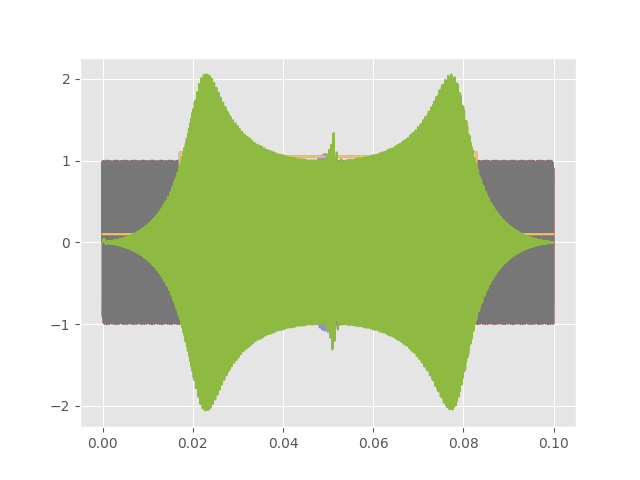
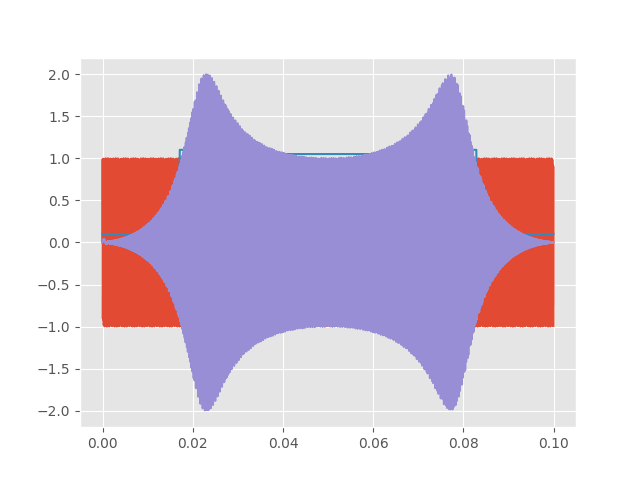
biquad filter now executes fast enough

diff --git a/autowah/variable_cutoff_biquad_filter.py b/autowah/variable_cutoff_biquad_filter.py
@@ -1,8 +1,32 @@
 from scipy import interpolate
 import numpy as np
 from collections import deque
+import numba
 
- 
+K = np.vectorize(lambda x: np.tan(np.pi * x))
+points = np.linspace(0,.5,endpoint=True,num=64)
+K_interp = interpolate.interp1d(points, K(points))
+
+@numba.jit()
+def _calculate_lowpass_gains(wc, Q):
+    K =  np.tan(np.pi * (wc))
+    norm = 1 / (1 + K / Q + K * K)
+    b0 = K*K*norm
+    a0 = 2*(K*K-1) * norm
+    a1 = (1 - K/Q + K * K) * norm
+    return (b0, a0, a1)
+
+@numba.jit()
+def _calculate_bandpass_gains(wc, Q):
+    K =  np.tan(np.pi * (wc))
+    norm = 1 / (1 + K / Q + K * K)
+    b0 = K / Q * norm;
+    # b1 = 0;
+    # b2 = -b0;
+    a1 = 2 * (K * K - 1) * norm;
+    a2 = (1 - K / Q + K * K) * norm;
+    return (b0, a1, a2)
+
 class VariableCutoffBiquadFilter:
     """
     Biquad Filter Implementation with Variable gain parameters. This assumes a LPF
@@ -19,52 +43,24 @@ class VariableCutoffBiquadFilter:
 
         self.fs = fs or 2*np.pi
 
+        self.b = np.zeros(3)
+        self.a = np.zeros(2)
+        self.prev_u = np.zeros(2)
 
         self.chunk = chunk
         if self.chunk:
             self.ys = np.empty(chunk, dtype=np.float32)
-
-        self.b = np.zeros(3)
-        self.a = np.zeros(2)
-
+            self.dest_u = np.empty(chunk + len(self.prev_u), dtype=np.float32)
+     
         K = np.vectorize(lambda x: np.tan(np.pi * x))
         points = np.linspace(0.001,.5,endpoint=True,num=64)
         self.K_interp = interpolate.interp1d(points, K(points))
 
-
         self.reset()
-
-    # @numba.jit()
-    def _calculate_lowpass_gains(self, wc, Q=.707):
-        K = self.K_interp(wc)
-        K_squared =  K * K
-        norm = 1 / (1 + K / Q + K * K)
-        
-        self.b[0] = K_squared*norm
-        self.b[1] = 2*self.b[0]
-        self.b[2] = self.b[0]
-        
-        self.a[0] = 2*(K_squared-1) * norm
-        self.a[1] = (1 - K/Q + K * K) * norm
 
     def reset(self):
         self._is_init = False
-        self._z_b = deque(maxlen=2)
-        self._z_b.extend(np.zeros(2))
-        self._z_a = deque(maxlen=2)
-        self._z_a.extend(np.zeros(2))
-        # self._z.extend(np.zeros(self._filter_len, dtype=np.float32))
 
-        # Qs = np.linspace(0,20,num=16)
-        # fs = np.linspace(0,np.pi, num=1024)
-        # points = np.meshgrid(Qs, fs)
-        # self._gain_interpolator = interpolate.LinearNDInterpolator(points, _calculate_lowpass_gains)
-
-        # # Create a lookup table for the available filter frequencies from 0 to nyquist
-        # self._coefficients_lut_size = 1024*2
-        # self._coefficients_lut_omegas = np.linspace(0, np.pi, endpoint=False, num=self._coefficients_lut_size)
-        # self._coefficients_lut = [self._compute_coefficients(w) for w in self._coefficients_lut_omegas]    
-    
 
     def run(self, u, fc):
         """
@@ -80,12 +76,16 @@ class VariableCutoffBiquadFilter:
 
         if not self.chunk:
             self.ys = np.empty(len(u), dtype=np.float32)
+            self.dest_u = np.empty(len(u) + len(self.prev_u), dtype=np.float32)
 
+        np.concatenate([u, self.prev_u], out=self.dest_u)
 
         for i in range(len(u)):
-            self._calculate_lowpass_gains(fc[i]/self.fs,2)
-            y = self.b[0] * u[i] + self.b[1] * self._z_b[1] + self.b[2] * self._z_b[0] - self.a[0] * self._z_a[1] - self.a[1] * self._z_a[0]
-            self._z_a.append(y)
-            self._z_b.append(u[i])
+            # Calculate the minimal set of gains
+            b0, a0, a1 = _calculate_lowpass_gains(fc[i]/self.fs,10)
+            y = b0* self.dest_u[i-2] + b0*2 * self.dest_u[i-1] + b0 *self.dest_u[i] - a0 * self.ys[i-1] - a1 * self.ys[i-2]
             self.ys[i] = y
+
+        self.prev_u[0] = u[-2]
+        self.prev_u[1] = u[-1]
         return self.ys

diff --git a/autowah/console.py b/autowah/console.py
@@ -7,6 +7,7 @@ from multiprocessing import Process
 
 from .envelope_follower import EnvelopeFollower
 from .variable_cutoff_filter import VariableCutoffFilter
+from .variable_cutoff_biquad_filter import VariableCutoffBiquadFilter
 import matplotlib.pyplot as plt
 
 # https://www.geeksforgeeks.org/check-data-type-in-numpy/
@@ -25,16 +26,17 @@ def run():
 
     CHANNELS = 1
     RATE = 44100
-    CHUNK = int(1024 * 4)
+    CHUNK = int(1024) 
     HISTORY_LENGTH = CHUNK * 20
 
     # Make these variables controlable
-    ENVELOPE_FOLLOWER_FC = 50
+    ENVELOPE_FOLLOWER_FC = 20
     envelope_follower = EnvelopeFollower(ENVELOPE_FOLLOWER_FC, RATE)
 
     # Q!
-    lpf = VariableCutoffFilter(filter_len=31, fs=RATE, chunk=CHUNK)
-    starting_freq = 50
+    # lpf = VariableCutoffFilter(filter_len=31, fs=RATE, chunk=CHUNK)
+    lpf = VariableCutoffBiquadFilter(fs=RATE, chunk=CHUNK)
+    starting_freq = 10
     sensitivity = 10000
     scope = {
         "in": RingBuffer(capacity=HISTORY_LENGTH),
@@ -54,12 +56,12 @@ def run():
         freqs = starting_freq + envelope * sensitivity
 
         # print(freqs)
-        out = 1* lpf.run(audio_data, freqs)
+        out = .8* lpf.run(audio_data, freqs) + audio_data*.2
         out = out.astype(np.float32)
 
-        # scope["in"].extend(audio_data)
-        # scope["envelope"].extend(envelope)
-        # scope["out"].extend(out)
+        scope["in"].extend(audio_data)
+        scope["envelope"].extend(envelope)
+        scope["out"].extend(out)
 
         return out, pyaudio.paContinue
 
@@ -77,33 +79,31 @@ def run():
 
     stream.start_stream()
 
-    # plt.style.use("ggplot")
+    plt.style.use("ggplot")
 
-    # fig = plt.figure()
-    # ax1: plt.Axes = fig.add_subplot(311)
-    # ax2 = fig.add_subplot(312, sharex=ax1)
-    # ax3 = fig.add_subplot(313, sharex=ax1)
-    # ax1.set_ylim((-1, 1))
-    # ax2.set_ylim((-1, 1))
-    # ax3.set_ylim((-1, 1))
-    # plt.ion()
+    fig = plt.figure()
+    ax1: plt.Axes = fig.add_subplot(311)
+    ax2 = fig.add_subplot(312, sharex=ax1)
+    ax3 = fig.add_subplot(313, sharex=ax1)
+    ax1.set_ylim((-1, 1))
+    ax2.set_ylim((-1, 1))
+    ax3.set_ylim((-1, 1))
+    plt.ion()
 
-    # (line1,) = ax1.plot(np.array(scope["in"]))
-    # (line2,) = ax2.plot(np.array(scope["envelope"]))
-    # (line3,) = ax3.plot(np.array(scope["out"]))
+    (line1,) = ax1.plot(np.array(scope["in"]))
+    (line2,) = ax2.plot(np.array(scope["envelope"]))
+    (line3,) = ax3.plot(np.array(scope["out"]))
 
-    # plt.show()
+    plt.show()
 
     # Move this stuff into a different process...
     while stream.is_active():
-        time.sleep(.1)
-        # line1.set_ydata(np.array(scope["in"]))
-        # line2.set_ydata(np.array(scope["envelope"]))
-        # line3.set_ydata(np.array(scope["out"]))
-        # fig.canvas.flush_events()
-        # time.sleep(.1)
+        line1.set_ydata(np.array(scope["in"]))
+        line2.set_ydata(np.array(scope["envelope"]))
+        line3.set_ydata(np.array(scope["out"]))
+        fig.canvas.flush_events()
     #     time.sleep(20)
-    #     stream.stop_stream()
+    stream.stop_stream()
     #     print("Stream is stopped")
 
     plotter_proc = Process(target=plotter)
